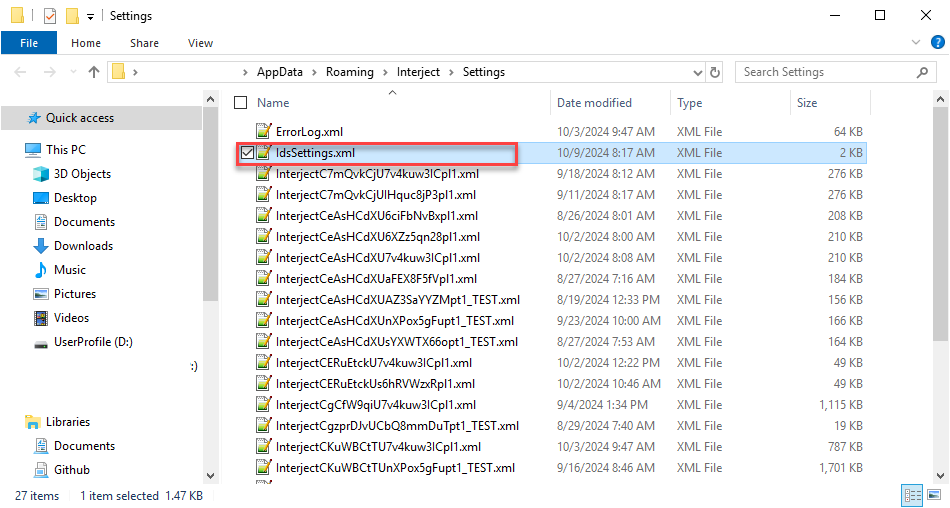
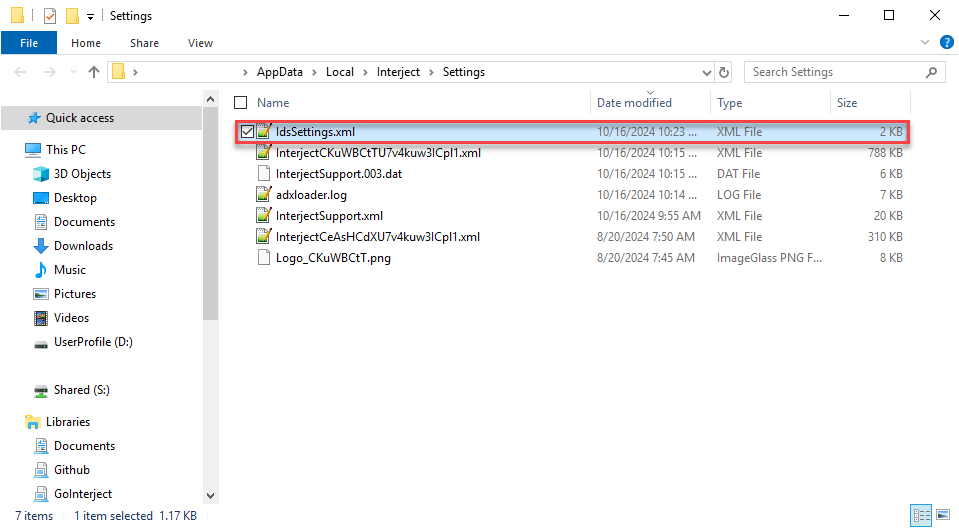
updated TLS page

diff --git a/wAbout/TLS.md b/wAbout/TLS.md
@@ -3,10 +3,21 @@ title: Interject TLS for HTTPS
 filename: "TLS.md"
 layout: custom
 keywords: [Security, Privacy, Data Governance, Transport, Config, IDSSettings, Install Code]
-headings: ["Overview", "TLS 1.0/1.1 End of Support", "Enabling TLS 1.2 for Earlier Interject Version", "Set TLS 1.2 Setting via Install Code", "Set TLS Settings via IDSSettings File"]
-links: ["https://learn.microsoft.com/en-us/lifecycle/announcements/tls-support-ending-10-31-2024", "https://portal.gointerject.com/download-interject.html", "#enabling-tls-12-for-earlier-interject-version", "#set-tls-12-setting-via-install-code"]
+headings: ["Overview", "TLS 1.0/1.1 End of Support", "Set TLS Settings via IDSSettings File", "Enabling TLS 1.2 for the Addin Manager"]
+links: ["https://learn.microsoft.com/en-us/lifecycle/announcements/tls-support-ending-10-31-2024", "https://portal.gointerject.com/download-interject.html", "#set-tls-settings-via-idssettings-file"]
 image_dir: "TLS"
-images: []
+images: [
+	{file: "OpenUserFolders", type: "png", site: "Add-in", cat: "Diagnostics", sub: "Open User Folders", report: "", ribbon: "", config: ""},
+	{file: "SettingsFolder", type: "png", site: "Windows", cat: "Explorer", sub: "", report: "", ribbon: "", config: ""},
+	{file: "TLSSetting", type: "png", site: "Windoes", cat: "Notepad", sub: "", report: "", ribbon: "", config: ""},
+	{file: "ExcelFileTab", type: "png", site: "Excel", cat: "", sub: "", report: "", ribbon: "", config: ""},
+	{file: "FileTabOptions", type: "png", site: "Excel", cat: "", sub: "", report: "", ribbon: "", config: ""},
+	{file: "InterjectInstallationLocation", type: "png", site: "Excel", cat: "Options", sub: "", report: "", ribbon: "", config: ""},
+	{file: "InstallFolder", type: "png", site: "Windows", cat: "Explorer", sub: "", report: "", ribbon: "", config: ""},
+	{file: "AddinManagerConfig", type: "png", site: "Windows", cat: "Notepad", sub: "", report: "", ribbon: "", config: ""},
+	{file: "ExitAddinManager", type: "png", site: "Add-in", cat: "Add-in Manager", sub: "", report: "", ribbon: "", config: ""},
+	{file: "StartAddinManager", type: "png", site: "Windows", cat: "Start Menu", sub: "", report: "", ribbon: "", config: ""}
+]
 description: Interject uses the Transport Layer Security (TLS). TLS is a cryptographic protocol designed to provide secure communication over a computer network. It ensures data privacy and integrity between two communicating applications by encrypting the information exchanged. 
 ---
 * * *
@@ -19,16 +30,53 @@ Interject uses the Transport Layer Security (TLS). TLS is a cryptographic protoc
 
 ### TLS 1.0/1.1 End of Support
 
-For Interject version 2.3.34 and earlier, the default is TLS 1.1. Support for TLS 1.0 and TLS 1.1 will end by October 31, 2024. For more info, see [here](https://learn.microsoft.com/en-us/lifecycle/announcements/tls-support-ending-10-31-2024){:target="_blank"}{:rel="noopener noreferrer"}. Your options are:
+For Interject version 2.3.34 and earlier, the default is TLS 1.1. Support for TLS 1.0 and TLS 1.1 will end by October 31, 2024. For more info, see [here](https://learn.microsoft.com/en-us/lifecycle/announcements/tls-support-ending-10-31-2024){:target="_blank"}{:rel="noopener noreferrer"}. Your two options are:
 
- - [Upgrade Interject](https://portal.gointerject.com/download-interject.html)
- - Update to TLS 1.2 by [enabling TLS 1.2](#enabling-tls-12-for-earlier-interject-version) and [changing the settings](#set-tls-12-setting-via-install-code)
+ 1. [Upgrade Interject](https://portal.gointerject.com/download-interject.html)
+
+ 2. Update to TLS 1.2 by [changing the settings](#set-tls-settings-via-idssettings-file)
 
 <br>
 
-### Enabling TLS 1.2 for Earlier Interject Version
+### Set TLS Settings via IDSSettings File
 
-The TLS setting can be changed by first enabling earlier versions to use TLS 1.2. This is a config file located in the Interject installation folder.
+You can manual set the TLS setting via the **IDSSettings.xml**.
+
+**Step 1:** Open the Diagnostics, select **Open User Folders** and click **Execute Selected Action**.
+
+![](/images/TLS/OpenUserFolders.png)
+<br>
+
+A few folders should open up.
+
+<blockquote class=highlight_note>
+<b>Note:</b> Interject version prior to 2.5.1.1 will use the local folder for the settings file. Starting with 2.5.1.1, Interject uses the roaming folder for its settings.
+</blockquote>
+<br>
+
+**Step 2:** In the Settings folder, open the **IDSSetting.xml** file with a text editor.
+
+![](/images/TLS/SettingsFolder.png)
+<br>
+
+You can change the TLS setting in the **TlsOverride** tag. If this tag is missing you can add it anywhere inside the \<Global\> section:
+
+```
+<TlsOverride>TLS 1.2</TlsOverride>
+```
+
+![](/images/TLS/TLSSetting.png)
+<br>
+
+Restart Excel to ensure your settings are active.
+
+<br>
+
+### Enabling System Default TLS Settings for the Addin Manager
+
+In addition to setting the TLS setting for the Addin, you can also optionally set the Addin Manager to use System default TLS settings. This means that the .NET Framework will automatically choose the most secure and highest TLS version supported by both the client (your application) and the server it is communicating with. Typically, this is TLS 1.2 or TLS 1.3 on modern systems.
+
+The Addin Manager typically does not use TLS calls except for some logging activities. To enable this, you must edit a config file located in the Interject installation folder.
 
 **Step 1:** To determine where Interject is installed, open Excel and click on the File tab:
 
@@ -45,12 +93,12 @@ The installation location is on the **Add-Ins** tab:
 ![](/images/TLS/InterjectInstallationLocation.png)
 <br>
 
-**Step 2:** Open the installation folder for Interject in a file browser and open the **AddinManager.exe.config** with a text editor.
+**Step 2:** Open the installation folder for Interject in a file browser and open the **InterjectAddinManager.exe.config** with a text editor.
 
 ![](/images/TLS/InstallFolder.png)
 <br>
 
-**Step 3:** Add the following line and save the file:
+**Step 3:** Add the following line after the \<startup> section and before the \<appSettings>:
 
 ```
 <!-- Enable TLS 1.2 and above -->
@@ -62,6 +110,8 @@ The installation location is on the **Add-Ins** tab:
 
 ![](/images/TLS/AddinManagerConfig.png)
 
+Be sure to save the file.
+
 **Step 4:** Restart the Addin Manager. Right click the Interject Addin Manger icon in the system tray and select **Exit**.
 
 ![](/images/TLS/ExitAddinManager.png)
@@ -71,41 +121,3 @@ Restart the Addin Manger.
 
 ![](/images/TLS/StartAddinManager.png)
 <br>
-<br>
-
-### Set TLS 1.2 Setting via Install Code
-
-You can set the TLS setting to 1.2 by entering an install code.
-
-Click on the **Advanced Menu** to reveal the **System** menu. On the **System** menu, click **Configure Install**.
-
-![](/images/TLS/ConfigureInstall.png)
-<br>
-
-Enter "TLS1.2" and click **Continue**.
-
-![](/images/TLS/TLS12.png)
-<br>
-
-Restart Excel to ensure TLS 1.2 setting is active.
-
-### Set TLS Settings via IDSSettings File
-
-You can manual set the TLS setting via the **IDSSettings.xml**.
-
-**Step 1:** Open the Diagnostics, select **Open User Folders** and click **Execute Selected Action**.
-
-![](/images/TLS/OpenUserFolders.png)
-<br>
-
-In the Settings folder, open the **IDSSetting.xml** file with a text editor.
-
-![](/images/TLS/SettingsFolder.png)
-<br>
-
-You can change the TLS setting in the **TlsOverride** tag.
-
-![](/images/TLS/TLSSetting.png)
-<br>
-
-Restart Excel to ensure your settings are active.
